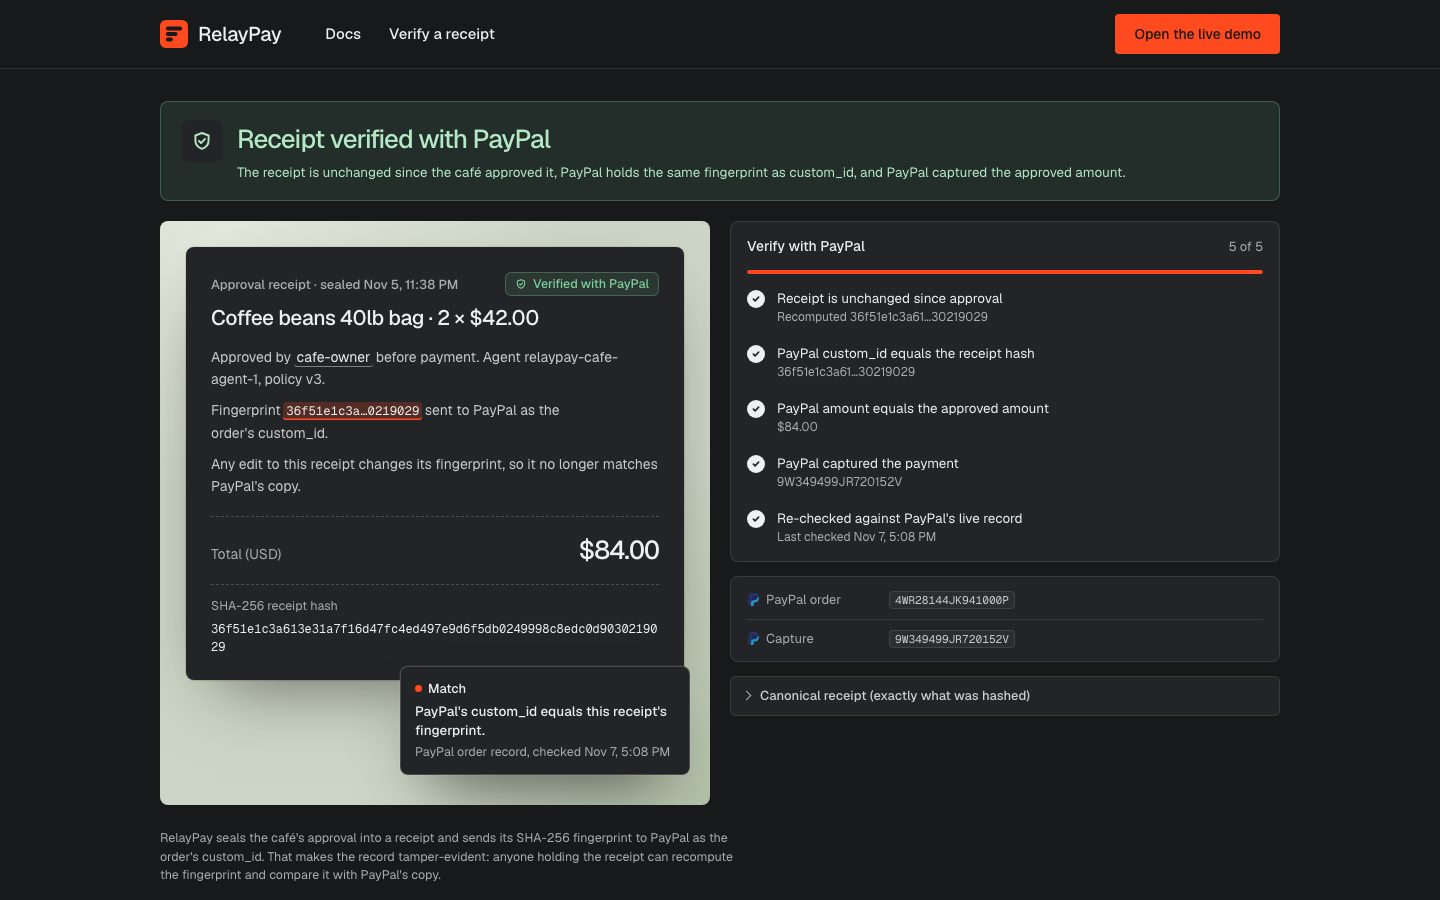
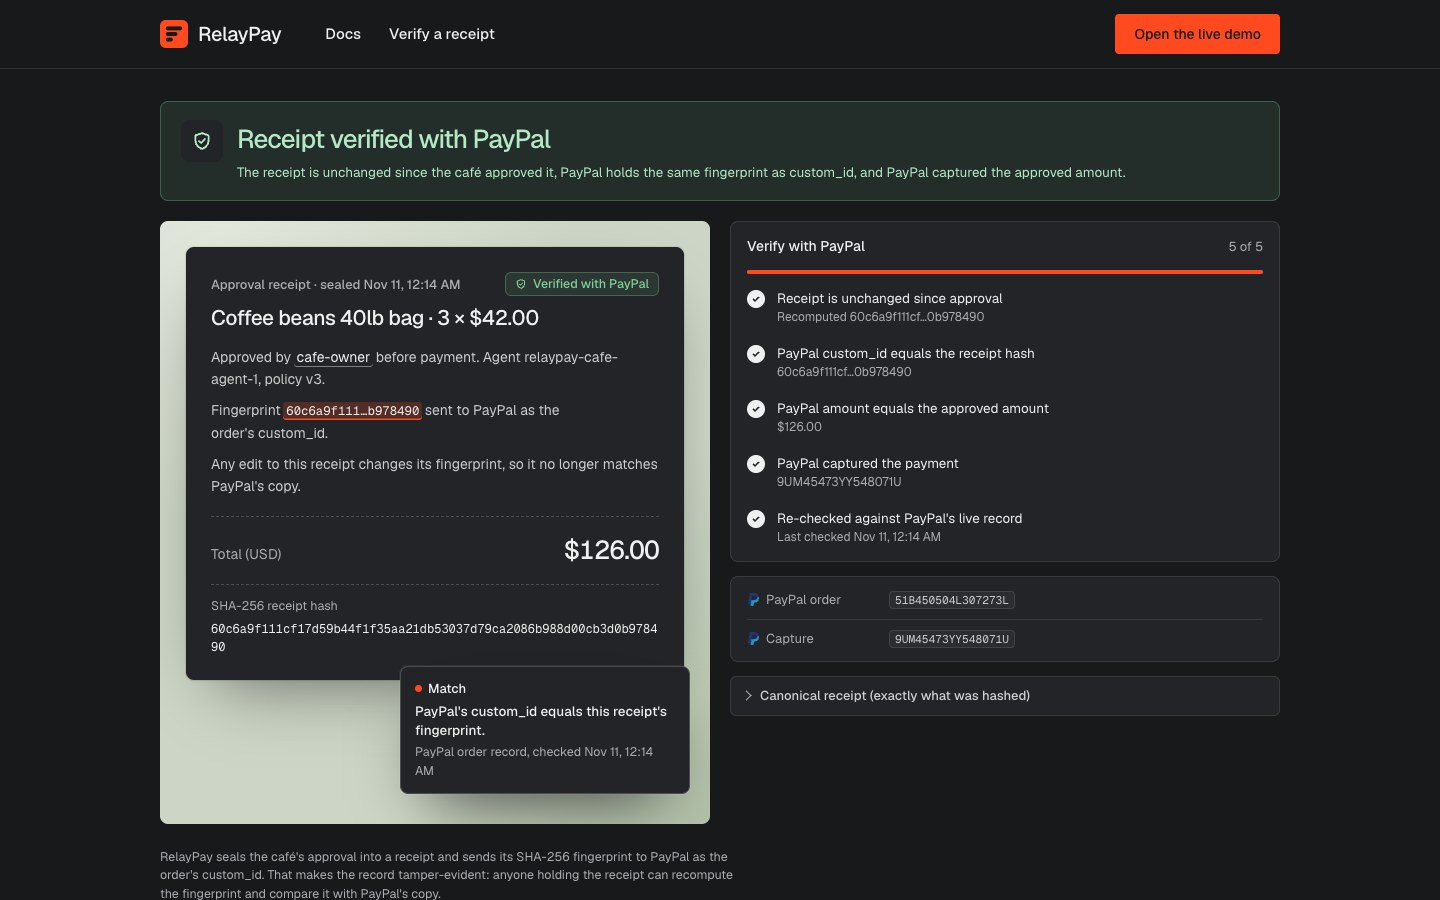
Polish the landing page and README screenshots for submission
- Landing: "Built on 5 PayPal APIs" (Transaction Search is optional and off on the
  hosted demo, now said plainly), owner alerts by email, Discord, Slack or ntfy,
  an "Email alerts" node in the integrations diagram, and a GitHub link and issue
  link in the footer instead of a placeholder email address.
- Privacy and terms: the contact line points to the GitHub issues page instead of
  hello@relaypay.example, which does not exist.
- README: retaken console and receipt screenshots from the live demo. The old
  console image still showed Zapier alerts and the $500 cap.

diff --git a/public/index.html b/public/index.html
@@ -170,7 +170,7 @@
   <section class="hero hero--centred" aria-labelledby="hero-h">
     <div class="wrap"><div class="hero-text">
       <div class="hero__c">
-        <a class="pill" href="#integrations"><span>Built on 6 PayPal APIs</span><span class="muted">See the integrations</span></a>
+        <a class="pill" href="#integrations"><span>Built on 5 PayPal APIs</span><span class="muted">See the integrations</span></a>
         <h1 id="hero-h" aria-label="AI reordering for café suppliers"><span class="mark" data-mark="stack" aria-hidden="true"></span>AI reordering for café suppliers</h1>
         <p class="hero__lead">An agent proposes each café's next order, the café approves it, and PayPal keeps a fingerprint of that approval.</p>
         <div class="btn-row"><a class="btn btn--primary" href="/app">Open the live demo</a><a class="btn btn--secondary" href="#receipt">See the receipt</a></div>
@@ -406,14 +406,14 @@
       <div class="grid">
         <h2 id="integrations-h" class="span-6">Works with PayPal and your tools</h2>
         <div class="span-6 start-7 stack-4">
-          <p class="muted">RelayPay calls Vault, Orders, Payments, Disputes, Webhooks and Transaction Search from its own server. The agents never hold credentials or move money.</p>
-          <p class="muted">Channel3 checks market prices, owner alerts go to Discord, Slack or ntfy, AG Grid draws the tables.</p>
+          <p class="muted">RelayPay calls Vault, Orders, Payments, Disputes and Webhooks from its own server, plus Transaction Search for reconciliation when it is enabled. The agents never hold credentials or move money.</p>
+          <p class="muted">Channel3 checks market prices, owner alerts arrive by email, Discord, Slack or ntfy, AG Grid draws the tables.</p>
         </div>
       </div>
       <div class="frame frame--lit dg-frame">
         <div class="dg" data-diagram><script type="application/json">{
             "layout": "hub",
-            "alt": "RelayPay connects to PayPal Orders, Vault, Disputes and Webhooks, Channel3, AG Grid and Render.",
+            "alt": "RelayPay connects to PayPal Orders, Vault, Disputes and Webhooks, Channel3, email alerts, AG Grid and Render.",
             "center": { "label": "RelayPay", "tone": "plain" },
             "spokes": [
               { "label": "PayPal Orders", "icon": "paypal" },
@@ -421,6 +421,7 @@
               { "label": "PayPal Disputes", "icon": "paypal" },
               { "label": "Webhooks", "icon": "paypal" },
               { "label": "Channel3", "icon": "text:C3" },
+              { "label": "Email alerts", "icon": "text:@" },
               { "label": "AG Grid", "icon": "text:AG" },
               { "label": "Render", "icon": "si:render" }
             ]
@@ -449,7 +450,7 @@
         <div class="span-2 footer__col"><h4>Product</h4><ul><li><a href="/app">Console</a></li><li><a href="/verify">Verify a receipt</a></li></ul></div>
         <div class="span-2 footer__col"><h4>Resources</h4><ul><li><a href="/docs">Docs</a></li><li><a href="/docs#paypal">PayPal APIs</a></li></ul></div>
         <div class="span-2 footer__col"><h4>Legal</h4><ul><li><a href="/privacy">Privacy</a></li><li><a href="/terms">Terms</a></li></ul></div>
-        <div class="span-2 footer__col"><h4>Contact</h4><ul><li><a href="mailto:hello@relaypay.example">Email us</a></li></ul></div>
+        <div class="span-2 footer__col"><h4>Contact</h4><ul><li><a href="https://github.com/mayurbijarniya/relaypay" target="_blank" rel="noreferrer">GitHub</a></li><li><a href="https://github.com/mayurbijarniya/relaypay/issues" target="_blank" rel="noreferrer">Report an issue</a></li></ul></div>
       </div>
       <div class="footer__legal">
         <span>&copy; 2026 RelayPay · PayPal sandbox only, no real money</span>

diff --git a/app/privacy/page.tsx b/app/privacy/page.tsx
@@ -57,7 +57,7 @@ export default function PrivacyPage() {
 
         <h2>Questions</h2>
         <p>
-          Email <a href="mailto:hello@relaypay.example">hello@relaypay.example</a>.
+          Open an issue at <a href="https://github.com/mayurbijarniya/relaypay/issues">github.com/mayurbijarniya/relaypay</a>.
         </p>
         <p className="muted small">Last updated November 2026.</p>
       </article>

diff --git a/app/terms/page.tsx b/app/terms/page.tsx
@@ -43,7 +43,7 @@ export default function TermsPage() {
 
         <h2>Contact</h2>
         <p>
-          Email <a href="mailto:hello@relaypay.example">hello@relaypay.example</a>.
+          Open an issue at <a href="https://github.com/mayurbijarniya/relaypay/issues">github.com/mayurbijarniya/relaypay</a>.
         </p>
         <p className="muted small">Last updated November 2026.</p>
       </article>
